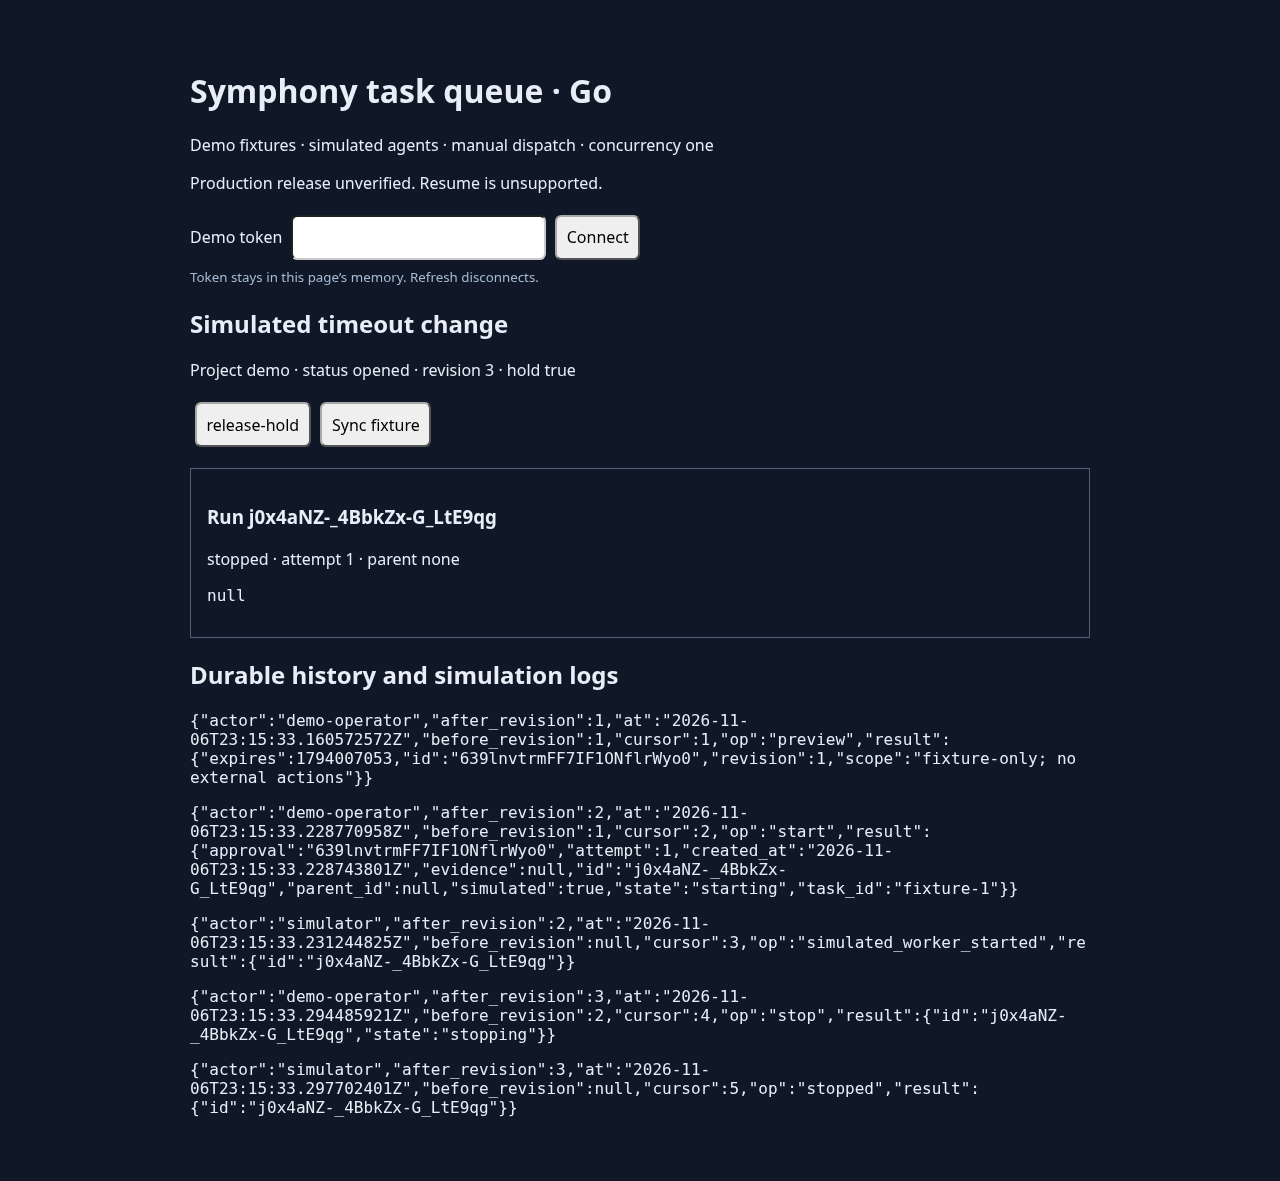
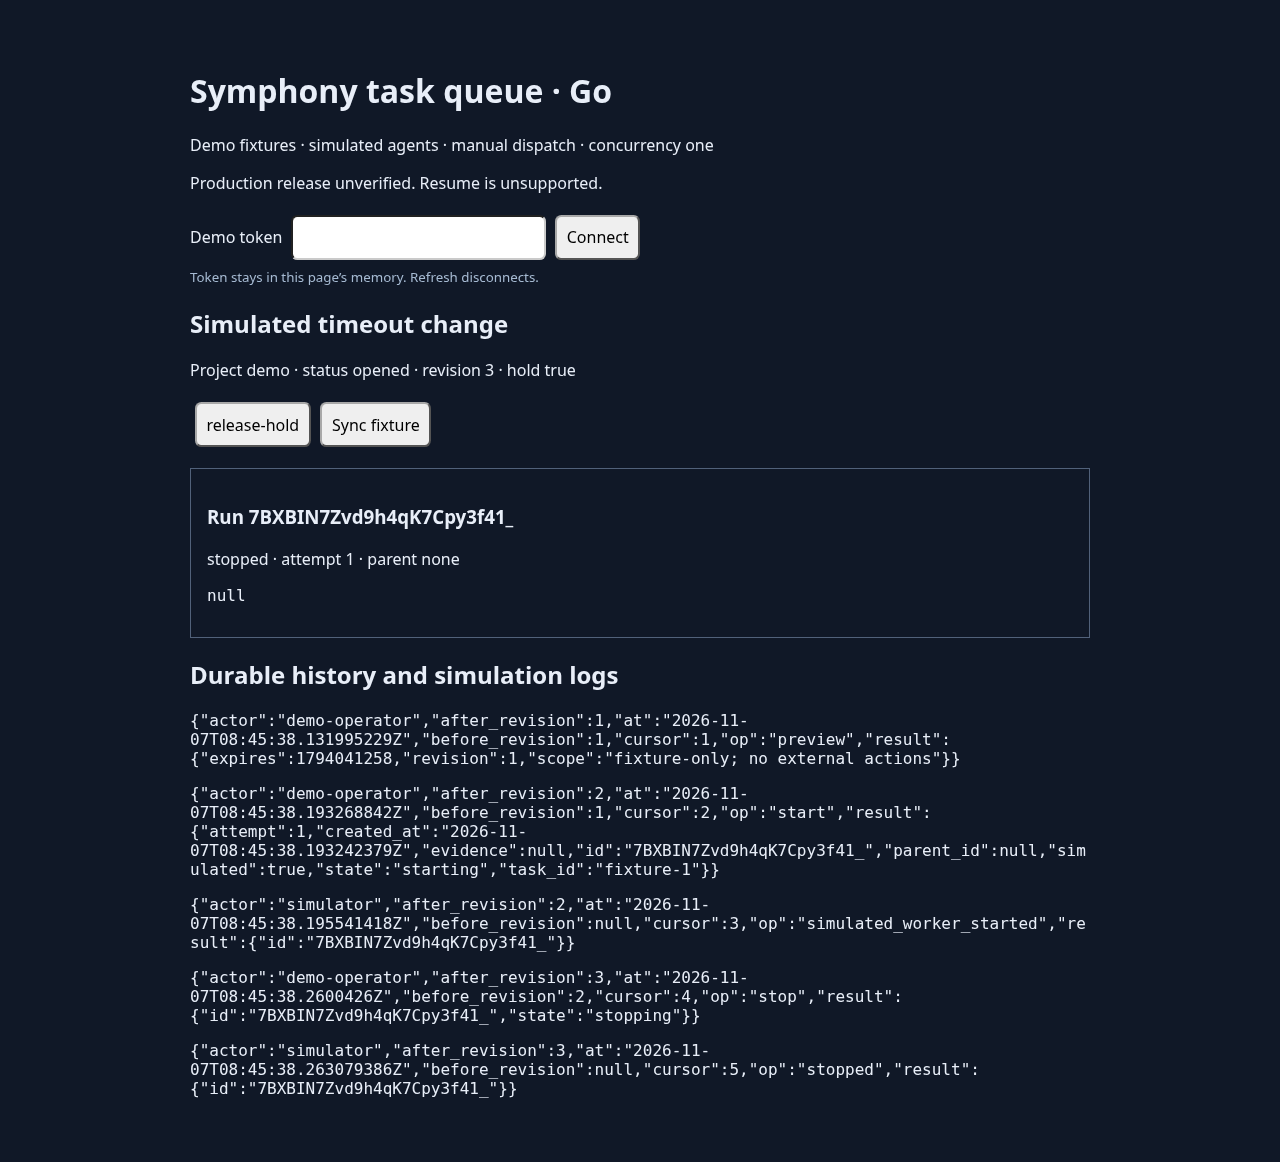
Align Go approval confidentiality and validity with PR2

diff --git a/go-manual/index.html b/go-manual/index.html
@@ -88,8 +88,18 @@
       b.onclick = () => command(op, id);
     }
     async function refresh() {
-      snapshot = await api("snapshot");
-      render();
+      const candidate = approval;
+      const next = await api("commands", {
+        op: "snapshot",
+        approval: candidate?.id,
+      });
+      // A late poll must not discard a newer approval created by this tab.
+      if (candidate !== approval) return;
+      const changed = JSON.stringify(snapshot) !== JSON.stringify(next);
+      snapshot = next;
+      if (!snapshot.approval_valid) approval = null;
+      // Avoid replacing unchanged controls between pointer-down and pointer-up.
+      if (changed) render();
     }
     function render() {
       app.replaceChildren();
@@ -137,9 +147,9 @@
           run_id: run_id || null,
           revision: snapshot.task.revision,
           key: crypto.randomUUID(),
-          approval,
+          approval: approval?.id,
         });
-        if (op === "preview") approval = r.id;
+        if (op === "preview") approval = r;
         else if (["start", "retry"].includes(op)) approval = null;
         error.textContent = "";
         await refresh();
@@ -153,6 +163,7 @@
     document.querySelector("#login").onsubmit = async (e) => {
       e.preventDefault();
       token = document.querySelector("#token").value;
+      approval = null;
       document.querySelector("#token").value = "";
       try {
         await refresh();

diff --git a/go-manual/service_test.go b/go-manual/service_test.go
@@ -416,3 +416,79 @@ func TestConcurrentEmergencyStopsAtCapacity(t *testing.T) {
 	reject(t, s, "hold", "demo_history_full", nil)
 	reject(t, s, "stop", "demo_history_full", obj{"run_id": r["id"]})
 }
+
+func TestApprovalConfidentialityAndValidity(t *testing.T) {
+	s := testService(t)
+	s.duration = time.Hour
+	first := good(t, s, "preview", obj{"key": "first-preview"})
+	check := func(approval any, want bool) {
+		t.Helper()
+		value, code := s.request(obj{"op": "snapshot", "approval": approval})
+		if code != "" || value.(obj)["approval_valid"] != want {
+			t.Fatalf("validity: %v %s", value, code)
+		}
+	}
+	check(nil, false)
+	check(first["id"], true)
+	second := good(t, s, "preview", nil)
+	check(first["id"], false)
+	check(second["id"], true)
+	reject(t, s, "start", "approval_required", obj{"approval": first["id"]})
+	for _, op := range []string{"snapshot", "events"} {
+		value, code := s.request(obj{"op": op})
+		encoded, _ := json.Marshal(value)
+		if code != "" || strings.Contains(string(encoded), first["id"].(string)) || strings.Contains(string(encoded), second["id"].(string)) {
+			t.Fatalf("capability leaked: %s %s", code, encoded)
+		}
+	}
+	// Public redaction must not destroy the original private idempotency response.
+	replay := good(t, s, "preview", obj{"key": "first-preview"})
+	if replay["id"] != first["id"] {
+		t.Fatal("redaction changed replay")
+	}
+	check(first["id"], false)
+	s.mu.Lock()
+	s.data.Approvals[second["id"].(string)]["expires"] = float64(0)
+	s.mu.Unlock()
+	check(second["id"], false)
+	third := good(t, s, "preview", nil)
+	good(t, s, "hold", nil)
+	check(third["id"], false)
+	good(t, s, "release-hold", nil)
+	fourth := good(t, s, "preview", nil)
+	run := good(t, s, "start", obj{"approval": fourth["id"]})
+	check(fourth["id"], false)
+	value, _ := s.request(obj{"op": "snapshot"})
+	encoded, _ := json.Marshal(value)
+	if strings.Contains(string(encoded), fourth["id"].(string)) {
+		t.Fatal("run or audit leaked approval")
+	}
+	if run["approval"] != fourth["id"] {
+		t.Fatal("private command response changed")
+	}
+}
+
+func TestPrivateApprovalProbeOverHTTP(t *testing.T) {
+	s := testService(t)
+	approval := good(t, s, "preview", nil)
+	token := strings.Repeat("h", 32)
+	server := httptest.NewServer(handler(s, token))
+	defer server.Close()
+	body, _ := json.Marshal(obj{"op": "snapshot", "approval": approval["id"]})
+	request, _ := http.NewRequest("POST", server.URL+"/api/v1/control/commands", strings.NewReader(string(body)))
+	request.Header.Set("Authorization", "Bearer "+token)
+	request.Header.Set("Content-Type", "application/json")
+	response, err := http.DefaultClient.Do(request)
+	if err != nil {
+		t.Fatal(err)
+	}
+	defer response.Body.Close()
+	var snapshot obj
+	if json.NewDecoder(response.Body).Decode(&snapshot) != nil || response.StatusCode != 200 || snapshot["approval_valid"] != true {
+		t.Fatal("private probe failed", snapshot)
+	}
+	encoded, _ := json.Marshal(snapshot)
+	if strings.Contains(string(encoded), approval["id"].(string)) {
+		t.Fatal("probe echoed private capability")
+	}
+}

diff --git a/go-manual/service.go b/go-manual/service.go
@@ -160,6 +160,19 @@ func emergency(req obj, d *state) bool {
 	}
 }
 
+// Redact capabilities from public copies only; durable replay records stay intact.
+func publicEvent(event obj) {
+	result, ok := event["result"].(map[string]any)
+	if !ok {
+		return
+	}
+	if event["op"] == "preview" {
+		delete(result, "id")
+	} else {
+		delete(result, "approval")
+	}
+}
+
 func (s *service) request(req obj) (any, string) {
 	s.mu.Lock()
 	defer s.mu.Unlock()
@@ -177,7 +190,16 @@ func (s *service) request(req obj) (any, string) {
 			actions = []string{"release-hold"}
 		}
 		d.Task["allowed_actions"] = actions
-		return obj{"task": d.Task, "runs": d.Runs, "events": d.Events}, ""
+		approvalID, _ := req["approval"].(string)
+		approval := d.Approvals[approvalID]
+		valid := approval != nil && approval["revision"] == d.Task["revision"] && approval["expires"].(float64) > float64(time.Now().Unix())
+		for _, run := range d.Runs {
+			delete(run, "approval")
+		}
+		for _, event := range d.Events {
+			publicEvent(event)
+		}
+		return obj{"task": d.Task, "runs": d.Runs, "events": d.Events, "approval_valid": valid}, ""
 	case "events":
 		cursor := float64(0)
 		if v, ok := req["cursor"]; ok {
@@ -190,6 +212,7 @@ func (s *service) request(req obj) (any, string) {
 		items := []obj{}
 		for _, e := range clone(s.data).Events {
 			if e["cursor"].(float64) > cursor {
+				publicEvent(e)
 				items = append(items, e)
 				if len(items) == 100 {
 					break

diff --git a/docs/PR2_COMPATIBILITY.md b/docs/PR2_COMPATIBILITY.md
@@ -1,0 +1,72 @@
+# PR #2 / PR #3 coordination
+
+Reviewed PR #2 CLI commit `1765cc8814244c55c54c9974ec54a2048776410f` and approval
+head `7dd3abc83bdfaf0f129a7b266626389a5fb7192a` against PR #3.
+
+## Shared CLI resolution
+
+The reusable CLI reconciliation is commit `3fd60dccb74c82449b3d8bc825cc6096cf9a778f`.
+Use that version of `cli/symphonyctl` when resolving the two PRs. It retains PR #2's
+arbitrary opaque-ID support and its six tests, plus PR #3's generated-ID/approval
+coverage. A single public-argparse normalization replaces the older format-specific
+private parser override.
+
+The original PR #2 six-test suite passed on Python 3.12/3.13 but produced ten error
+subcases on Python 3.11. The reconciled parser puts known options before all literal
+positionals and binds option values with `=`. Both suites (7 + 6 tests) pass on
+Python 3.11, 3.12 and 3.13, including these independently reported cases:
+
+```sh
+symphonyctl --json runs stop -run --revision 2
+symphonyctl runs retry -run --revision 2 --approval -preview
+```
+
+Opaque IDs and persisted data are not changed. Full option names are required.
+A first otherwise-unrecognized token in the ID position is an ID (the unavoidable
+ambiguity required by PR #2's direct opaque-ID syntax); unknown extra options after
+an ID still reject. IDs equal to known option names require an explicit `--` boundary.
+
+## Go approval alignment
+
+Go now mirrors PR #2's service read policy:
+
+- Shared snapshot runs omit `approval`; preview audit results omit the private `id`;
+  other event results omit `approval`. The events endpoint uses the same redaction.
+- `approval_valid` reports only whether the caller's supplied approval is still
+  current, revision-matched and unexpired; ordinary snapshots without one return false.
+- Go's browser keeps its own approval locally and probes through authenticated POST
+  `commands` with `{op: "snapshot", approval: <owned id>}`. No approval is put in a URL.
+  This read request works through PR #2's existing command controller as well.
+- The browser clears replaced, expired, consumed and revision-invalid approvals on
+  refresh. It does not copy approvals from another tab's history. Polls avoid replacing
+  unchanged controls, and a late response cannot clear a newer locally created preview.
+- Redaction applies to public copies only. Durable private command responses and
+  exact idempotency replay remain intact; replay does not reinstate replaced approvals.
+
+This is a fixture capability boundary, not per-user account authorization. All clients
+still use the configured demo token. PR #2 remains the owner of the Elixir approval/
+LiveView changes; this PR does not transplant its deployment, guide or Elixir UI work.
+Standalone PR #3's Elixir baseline gets the approval policy only when PR #2 is integrated.
+
+## Merge check and validation
+
+A temporary local merge of PR #2 and PR #3 required explicit resolutions in
+`README.md`, `elixir/README.md`, `elixir/WORKFLOW.md`, and `cli/symphonyctl`.
+Keep both documentation additions and use the reconciled CLI above. Elixir's capacity
+safety changes and PR #2's approval redaction/validity changes merged together.
+No merge was published and neither PR was merged into main.
+
+The combined Elixir code, PR #2 tests, PR #3 capacity tests and reconciled CLI passed
+`make all` with cached dependencies (`HEX_OFFLINE=1`): **313 tests, zero failures,
+six skipped**, configured coverage 100%, lint/specs and Dialyzer passed.
+
+Go's race suite passed at **90.8% statement coverage**, including replacement,
+expiry, revision changes, consumption, snapshot/events confidentiality, HTTP private
+validity probing, and preservation of private idempotent replay. Vet/build passed.
+Both CLI suites are now run by the Go CI job.
+
+Real Chromium tests passed for two-tab preview replacement, hold invalidation,
+run completion and public redaction; the original start/stop/hold/retry/mobile flow
+also passed. Screenshots 01–04 were refreshed; 05–06 show the approval behavior.
+`bench/ui-approval-check.cjs` reproduces the two-tab test against a fresh Go database.
+The resource benchmark was not rerun after these correctness changes.

diff --git a/docs/go-evidence/README.md b/docs/go-evidence/README.md
@@ -16,3 +16,12 @@ rerunning against a used fixture can legitimately exhaust its attempt budget.
 Other checks are recorded in the benchmark report and Go README. Screenshots are
 visual evidence of the tested flow, not proof of external-agent execution,
 production deployment, Google integrations, every browser, or every failure mode.
+
+Screenshots 01–04 were refreshed after approval redaction. Additional evidence:
+
+5. `05-replaced-preview.png`: first browser tab after the second tab replaced its
+   preview; no stale start button and no approval IDs in shared history.
+6. `06-redacted-run.png`: completed run with shared snapshot/history redaction.
+
+`bench/ui-approval-check.cjs` asserts both tabs, hold invalidation, private history,
+run completion and no page errors. See `docs/PR2_COMPATIBILITY.md` for merge validation.

diff --git a/go-manual/README.md b/go-manual/README.md
@@ -133,3 +133,10 @@ Startup errors, including an occupied port, exit nonzero. The listening message
 reports the actual bound address only after initialization; SIGINT/SIGTERM are
 normal shutdowns. See [startup regression evidence](../docs/go-evidence/STARTUP_FIX.md)
 and the [reference UI gap/plan](../docs/GO_UI_GAP.md).
+
+Shared snapshots/events redact approval credentials. The browser keeps only its
+own preview and checks `approval_valid` using an authenticated POST read request;
+replaced, consumed, expired or revision-invalid approvals disappear on refresh.
+Polling updates arrive within roughly one second. Private command replay remains
+unchanged. See [PR #2 compatibility and merge notes](../docs/PR2_COMPATIBILITY.md)
+for the matching Elixir change and reconciled shared CLI.
